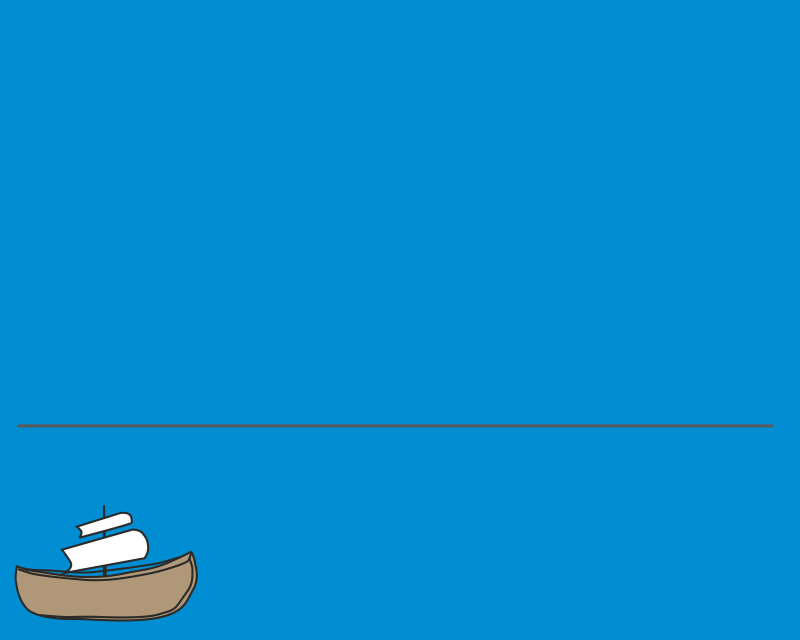
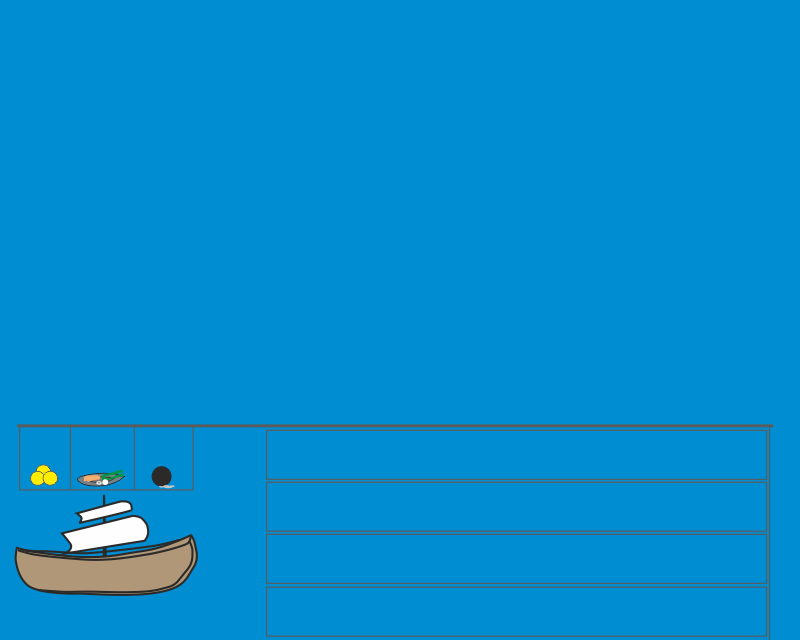
@add Storage images,

diff --git a/src/main/java/pl/mareksowa/controllers/DockyardController.java b/src/main/java/pl/mareksowa/controllers/DockyardController.java
@@ -3,6 +3,7 @@ package pl.mareksowa.controllers;
 import javafx.fxml.FXML;
 import javafx.fxml.Initializable;
 
+import javafx.scene.control.Button;
 import javafx.scene.control.Label;
 import javafx.scene.control.TextField;
 import javafx.scene.image.Image;
@@ -30,8 +31,45 @@ public class DockyardController implements Initializable{
     @FXML
     private Label lblPlayerGold;
 
-    private Image backgroundImage;
+    @FXML
+    private Label lblPlayerFood;
 
+    @FXML
+    private Label lblPlayerAmmo;
+
+
+    @FXML
+    private Button btStorage1;
+
+    @FXML
+    private Button btStorage2;
+
+    @FXML
+    private Button btStorage3;
+
+    @FXML
+    private Button btStorage4;
+
+    @FXML
+    private Button btStorage5;
+
+    @FXML
+    private Button btStorage6;
+
+    @FXML
+    private Button btStorage7;
+
+    @FXML
+    private Button btStorage8;
+
+    @FXML
+    private Button btStorage9;
+
+    @FXML
+    private Button btStorage10;
+
+
+    private Image backgroundImage;
     private ShipDaoImpl shipDao;
     private Ship playerShip;
 
@@ -39,7 +77,22 @@ public class DockyardController implements Initializable{
     public void initialize(URL location, ResourceBundle resources) {
         shipDao = ShipDaoImpl.getInstance();
         playerShip = shipDao.getAllShips().get(0);
-        lblPlayerGold.setText("Your Gold $" + playerShip.getGold());
+        lblPlayerGold.setText(String.valueOf(playerShip.getGold()));
+        lblPlayerFood.setText(String.valueOf(playerShip.getFood()));
+        lblPlayerAmmo.setText(String.valueOf(playerShip.getAmmo()));
+
+        btStorage1.setGraphic(new ImageView("img/StorageEmpty.png"));
+        btStorage2.setGraphic(new ImageView("img/StorageEmpty.png"));
+        btStorage3.setGraphic(new ImageView("img/StorageEmpty.png"));
+        btStorage4.setGraphic(new ImageView("img/StorageEmpty.png"));
+        btStorage5.setGraphic(new ImageView("img/StorageEmpty.png"));
+        btStorage6.setGraphic(new ImageView("img/StorageEmpty.png"));
+        btStorage7.setGraphic(new ImageView("img/StorageEmpty.png"));
+        btStorage8.setGraphic(new ImageView("img/StorageEmpty.png"));
+        btStorage9.setGraphic(new ImageView("img/StorageEmpty.png"));
+        btStorage10.setGraphic(new ImageView("img/StorageEmpty.png"));
+
+
         //lblPlayerGold.setText(shipDao.getAllShips().size() + " licza statkow");
         backgroundImage = new Image("img/BackGroundLine.png");
         ivBackGround.setImage(backgroundImage);
@@ -49,4 +102,5 @@ public class DockyardController implements Initializable{
         lblTitle.setText("Ship Dockyard");
         lblUpperText.setText("Hello capitan, just indicate what you want to add to your ship");
     }
+
 }

diff --git a/src/main/java/pl/mareksowa/controllers/Menu.java b/src/main/java/pl/mareksowa/controllers/Menu.java
@@ -1,9 +1,12 @@
 package pl.mareksowa.controllers;
 
 import javafx.application.Platform;
+import javafx.fxml.FXML;
 import javafx.fxml.FXMLLoader;
 import javafx.scene.Parent;
 import javafx.scene.Scene;
+import javafx.scene.image.Image;
+import javafx.scene.image.ImageView;
 import javafx.stage.Stage;
 import pl.mareksowa.models.ships.Ship;
 import pl.mareksowa.models.ships.dao.impl.ShipDaoImpl;
@@ -36,6 +39,40 @@ public class Menu {
         } catch (IOException e){
             e.printStackTrace();
         }
+    }
+
+    @FXML
+    private ImageView ivStorage1;
+
+    @FXML
+    private ImageView ivStorage2;
+
+    @FXML
+    private ImageView ivStorage3;
+
+    @FXML
+    private ImageView ivStorage4;
+
+    @FXML
+    private ImageView ivStorage5;
+
+    @FXML
+    private ImageView ivStorage6;
+
+    @FXML
+    private ImageView ivStorage7;
+
+    @FXML
+    private ImageView ivStorage8;
+
+    @FXML
+    private ImageView ivStorage9;
+
+    @FXML
+    private ImageView ivStorage10;
+
+    public void loadStorage(){
+
     }
 
 }
